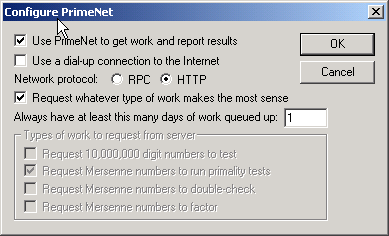
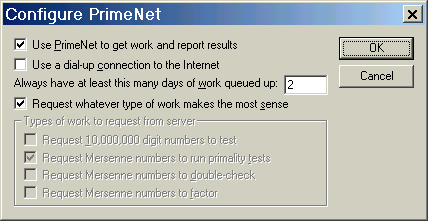
Help updated for modified primenet and cpu dialog boxes
SVN r8

Changed region(s): [[0.0, 0.0, 1.0, 0.9502]]

diff --git a/prime95/hlp/TestMenuPrimeNet.htm b/prime95/hlp/TestMenuPrimeNet.htm
@@ -92,7 +92,7 @@ div.Section1
 -->
 </style>
 <!--[if gte mso 9]><xml>
- <o:shapedefaults v:ext="edit" spidmax="1029">
+ <o:shapedefaults v:ext="edit" spidmax="1027">
   <o:colormru v:ext="edit" colors="#fc9"/>
   <o:colormenu v:ext="edit" fillcolor="none"/>
  </o:shapedefaults></xml><![endif]--><!--[if gte mso 9]><xml>
@@ -146,7 +146,7 @@ is set at.<o:p></o:p></span></p>
 "MS Mincho";color:black'><![if !supportEmptyParas]>&nbsp;<![endif]><o:p></o:p></span></p>
 
 <p class=MsoPlainText><span style='mso-fareast-font-family:"MS Mincho";
-color:black'><img border=0 width=389 height=236 id="_x0000_i1027"
+color:black'><img border=0 width=428 height=221 id="_x0000_i1031"
 src=PrimenetDlg.png><o:p></o:p></span></p>
 
 </div>

diff --git a/prime95/hlp/TestMenuPrimeNet.html b/prime95/hlp/TestMenuPrimeNet.html
@@ -92,7 +92,7 @@ div.Section1
 -->
 </style>
 <!--[if gte mso 9]><xml>
- <o:shapedefaults v:ext="edit" spidmax="1029">
+ <o:shapedefaults v:ext="edit" spidmax="1027">
   <o:colormru v:ext="edit" colors="#fc9"/>
   <o:colormenu v:ext="edit" fillcolor="none"/>
  </o:shapedefaults></xml><![endif]--><!--[if gte mso 9]><xml>
@@ -146,7 +146,7 @@ is set at.<o:p></o:p></span></p>
 "MS Mincho";color:black'><![if !supportEmptyParas]>&nbsp;<![endif]><o:p></o:p></span></p>
 
 <p class=MsoPlainText><span style='mso-fareast-font-family:"MS Mincho";
-color:black'><img border=0 width=389 height=236 id="_x0000_i1027"
+color:black'><img border=0 width=428 height=221 id="_x0000_i1031"
 src=PrimenetDlg.png><o:p></o:p></span></p>
 
 </div>
